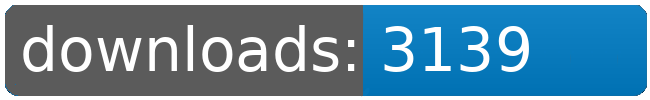
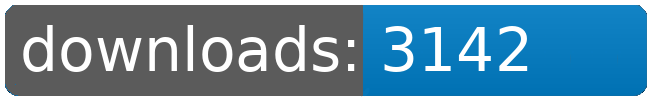
dl log written

Changed region(s): [[0.7077, 0.24, 0.8308, 0.72]]

diff --git a/README.md b/README.md
@@ -43,8 +43,8 @@
 		<td>4103</td>
 		<td>4141</td>
 		<td>4173</td>
-		<td>4177</td>
-		<td>+ 4</td>
+		<td>4179</td>
+		<td>+ 6</td>
 	</tr>
 	<tr>
 		<td>Jaws</td>
@@ -98,8 +98,8 @@
 		<td>3079</td>
 		<td>3107</td>
 		<td>3135</td>
-		<td>3139</td>
-		<td>+ 4</td>
+		<td>3142</td>
+		<td>+ 7</td>
 	</tr>
 	<tr>
 		<td></td>
@@ -109,8 +109,8 @@
 		<td></td>
 		<td></td>
 		<td></td>
-		<td>27574</td>
-		<td>32</td>
+		<td>27579</td>
+		<td>37</td>
 	</tr>
 </table>
 </sub></sup>
@@ -135,8 +135,8 @@
 		<td>4103</td>
 		<td>4141</td>
 		<td>4173</td>
-		<td>4177</td>
-		<td>+ 4</td>
+		<td>4179</td>
+		<td>+ 6</td>
 	</tr>
 	<tr>
 		<td>Louise.Conglomerate.Shipyards</td>
@@ -212,8 +212,8 @@
 		<td>3079</td>
 		<td>3107</td>
 		<td>3135</td>
-		<td>3139</td>
-		<td>+ 4</td>
+		<td>3142</td>
+		<td>+ 7</td>
 	</tr>
 	<tr>
 		<td></td>
@@ -223,8 +223,8 @@
 		<td></td>
 		<td></td>
 		<td></td>
-		<td>27574</td>
-		<td>32</td>
+		<td>27579</td>
+		<td>37</td>
 	</tr>
 </table>
 </sub></sup>
